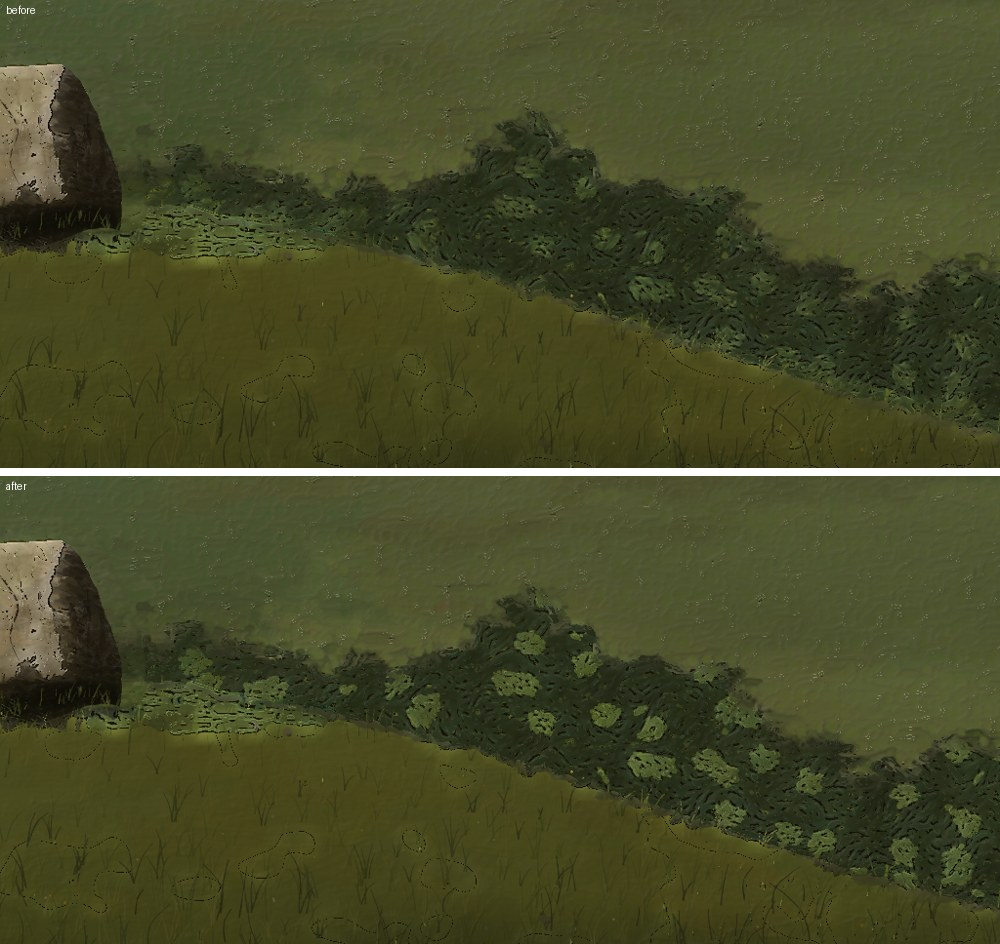
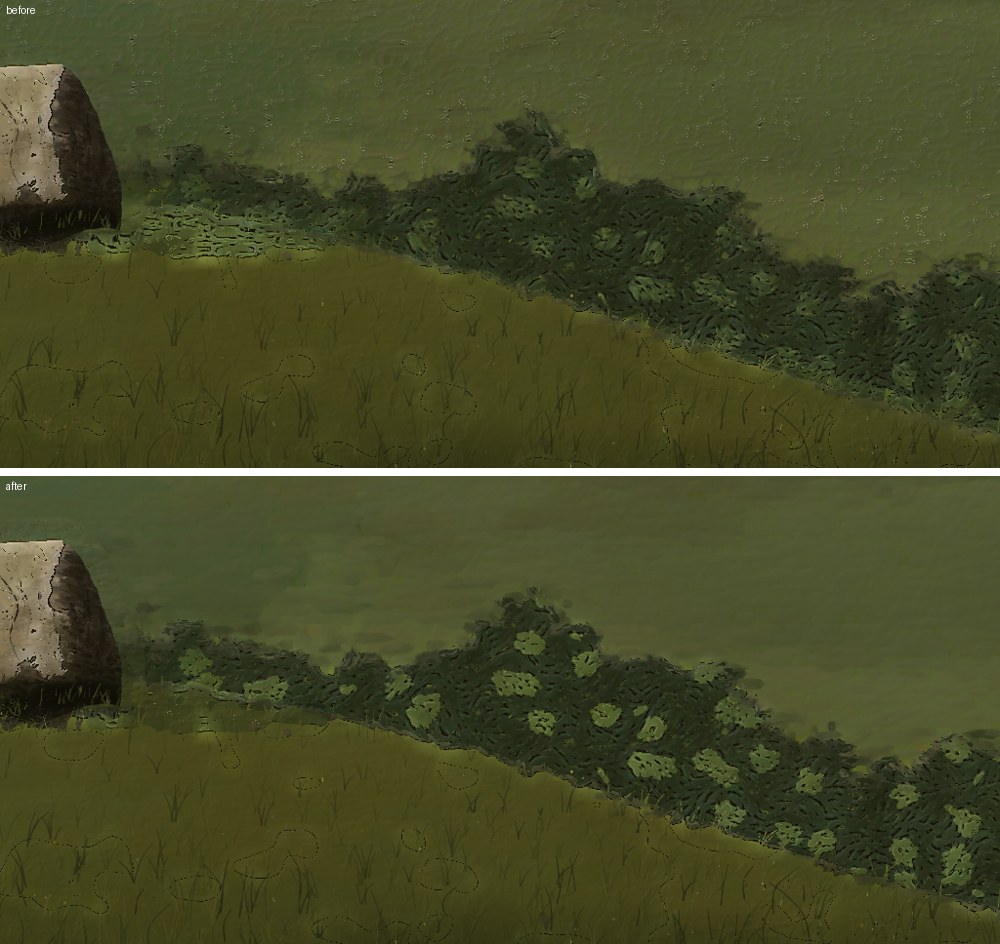
Wet on wet, second pass: notes (lab failures one by one, veins, l5_near floor pass), study_wet_lab panel 6, evidence

Changed region(s): [[0.124, 0.7066, 0.31, 0.7987]]

diff --git a/paintings/src/bin/study_wet_lab.rs b/paintings/src/bin/study_wet_lab.rs
@@ -10,6 +10,8 @@
 //! 4. reference: the brush-free `glaze()` verb over dry sky, same color.
 //! 5. **a thin stroke into open water**, a round 3 with a varying pressure,
 //!    then a short level blend (the "tramlines").
+//! 6. **a clean blender over a lean veil on open thin sky** (lab 3: "salmon
+//!    dashes after `blend` at coverage 1.2 over a lean filbert veil").
 //!
 //! Printed: the share of each panel's worked area that shows the ground,
 //! its texture (mean |L − L blurred over 2 units|, OKLab ×1000: rims,
@@ -22,7 +24,7 @@
 use paint::color::to_oklab;
 use paint::{Canvas, Gesture, Held, Mask, Orient, Pigment, Rgb, Stage, Style, Tool, hex};
 
-const W: f32 = 1000.0 / 6.0;
+const W: f32 = 1000.0 / 7.0;
 const Y0: f32 = 40.0;
 const Y1: f32 = 360.0;
 
@@ -146,6 +148,13 @@ fn main() {
     c.drag(&mut r, &Gesture::new(vec![(x0 + 10.0, 200.0), (x1 - 10.0, 200.0)]).pressure(0.45, 0.45).swell(vec![0.25, 1.1, 0.7, 1.2, 0.1]).orient(Orient::Across), None);
     let lb = st.blend().expect("blender").coverage(1.0).angle(|_, _| 0.0).length(20.0, 40.0);
     c.work(&rect(&c, x0 + 10.0, 192.0, x1 - 10.0, 208.0), &lb, 42);
+    sky(&mut c, &st, 6, Y1);
+    let (x0, x1) = panel(6);
+    let veil = hex("#9a968e");
+    let mut vh = st.body().color(move |_, _| veil).medium(0.5).load(0.3).length(20.0, 50.0);
+    vh.tool = Tool::filbert(6.0);
+    c.work(&rect(&c, x0 + 15.0, 120.0, x1 - 15.0, 300.0), &vh, 50);
+    c.work(&rect(&c, x0 + 15.0, 120.0, x1 - 15.0, 300.0), &st.blend().expect("blender").coverage(1.2), 51);
     c.dry();
     // measure
     let img = Img::new(&c);
@@ -157,8 +166,8 @@ fn main() {
             _ => (x0 + 20.0, 125.0, x1 - 20.0, 295.0),
         }
     };
-    let names = ["blend on a wet seam", "glaze hand, open sky", "glaze hand, tacky sky", "glaze hand, dry sky", "glaze() verb, dry sky", "thin stroke into open water"];
-    for k in 0..6 {
+    let names = ["blend on a wet seam", "glaze hand, open sky", "glaze hand, tacky sky", "glaze hand, dry sky", "glaze() verb, dry sky", "thin stroke into open water", "blend over a lean veil, open"];
+    for k in 0..7 {
         println!("{k} {:<28} ground {:>5.1}%  texture {:>5.1}", names[k], 100.0 * img.ground(g, area(k)), img.texture(area(k)));
     }
     // tramlines: the stroke's cross profile, averaged along it

diff --git a/notes/wet.md b/notes/wet.md
@@ -246,7 +246,7 @@ What mixes: pressure, a lean brush (`load` 0.2–0.4), a stiff hog, dragging
 back and forth, `blend`, `scrub`. What stays on top: a full load
 (0.8–1.0), a soft brush, a light touch, one pass.
 
-## 3. Evidence (after)
+## 3. Evidence (after the first pass; see §5 for the current engine)
 
 `cargo paint study_wet` (1000 px):
 
@@ -350,3 +350,181 @@ prints a touch's lift at 500–3200 px.
 - The stir and cushion constants are estimates (`[E]`), set so the study's
   gestures behave as the alla prima rules describe; there are no
   measurements of mixing depth to calibrate them against.
+
+## 5. Second pass: the lab painters' failures, veins, blending
+
+Main was merged first (r6-time's hand time and the easel fix). The lab
+painters had worked wet on purpose on the old engine and reported
+failures (`notes/lab/*.md` on their branches). I rebuilt each mechanism as
+a panel in `paintings/src/bin/study_wet_lab.rs` (`cargo paint
+study_wet_lab`), with the handling they used, measured on main's engine
+and this branch's, and replayed `notes/lab/water_B.lua` for the tramlines.
+
+### What changed in the engine
+
+- **The earlier surface film is settled at the stroke's end** (`Surf::lay`,
+  `Surf::settle_mid`). The first pass buried an earlier stroke's surface
+  film in the body as soon as a new stroke touched the pixel. A new
+  stroke's thin edge over an earlier light stroke then showed the dark body
+  through it: the **web of dark veins** on the rock and the snow in the
+  first pass's `pitfalls_before_after.jpg`. Now the old film is set aside
+  and, when the stroke ends, buried in proportion to how much of the new
+  paint covers it (`BURY` = 0.6 coats hides it all). The rest stays in the
+  surface film, mixed with the new paint. A film like the body under it is
+  always buried; that changes nothing but frees the surface.
+- **The plough goes with the paint's stiffness** (`PLOUGH_STIFF`). Only
+  paint with a yield stress keeps a bow wave; medium-rich paint flows round
+  the bristle and back into its furrow (a glaze levels bristle-scale
+  ridges in about 0.06 s: `notes/research/oil_paint_physics.md` §1). Paint
+  from medium 0.85 (stiffness about 0.02) is pushed at a tenth of the old
+  rate, a thin sky at medium 0.3 at about 0.6, stiff paint as before.
+- **A blender or a nearly spent bristle drags what it carries into the
+  film** instead of laying it on top (`drag_in`). A clean blender (`lay`
+  0) holds no charge; the paint it moves was picked up a moment before.
+  In the first pass it laid that paint as a surface film, and across a wet
+  seam it left a pale lace of sky on the dark and no blend. The cushion
+  also scales with how much paint the tool is made to carry.
+- **Stirring** follows the bristle's deposit (so what a bristle lays is
+  worked by the same pass). It is stronger for thin surface films: a film
+  much thinner than a coat is no layer of its own once it is sheared. It
+  depends less on bristle stiffness and pressure: any hair shears a surface
+  film.
+
+### The lab failures, one by one
+
+Measured in `study_wet_lab` (1000 px; ground = share of the worked area
+within ΔE 0.06 of the ground color; texture = mean |L − L blurred over 2
+units| ×1000; the brush-free `glaze()` verb gives about 1):
+
+```
+                                     main engine          this branch
+0 blend across a wet seam            ground 0.0% tex  4.8  ground 0.0% tex  4.8
+1 glaze hand over open thin sky      ground 42%  tex 20.4  ground 0.1% tex 11.9
+2 glaze hand over tacky sky          ground 0.0% tex 32.3  ground 0.0% tex  4.0
+3 glaze hand over dry sky            ground 0.0% tex 42.2  ground 0.0% tex  6.8
+4 glaze() verb over dry sky (ref.)   ground 0.2% tex  1.4  ground 0.0% tex  1.0
+5 thin stroke into open water        ground 0.0% tex  6.2  ground 0.0% tex 12.1
+6 blender over a lean veil, open     ground 0.8% tex  5.2  ground 0.0% tex  6.1
+```
+
+Images: `lab_failures_before_after.jpg` (all panels),
+`lab_glaze_zoom_before_after.jpg` (panels 1–3 at 2000 px),
+`lab_water_B_3200crop_before_after.jpg` (the replayed water log).
+
+**Lifting or ploughing to the ground**
+- *A glaze-hand stroke over thin open sky lifts it to the ground* (lab 3):
+  reproduced (42% of the area). **Fixed** (0.1%): the plough no longer
+  bulldozes fluid glaze paint, and the thin sky under it stays.
+- *A clean blender or badger along a wet seam, or over a lean veil,
+  exposes the ground* (labs 1 and 3): reproduced only weakly (0.8% over a
+  lean veil). **Fixed** (0%), by the same fluid plough and by blenders
+  dragging their paint in. A blender across a seam fuses it again (texture
+  4.8, as on main) where the first pass left a lace.
+- *A filbert into thin wet sky scrapes it to the ground* (lab 2): the same
+  mechanism as the plowed river and row 4 of `study_wet` (a bristle
+  pushing a thin film aside), fixed in the first pass by the plough floor
+  and now also by the fluid plough. Not replayed separately.
+- *A light into an open dark ploughs a camouflage mottle with ground
+  showing* (lab 1): **fixed in the first pass** (lights stay on top, clean:
+  `row1_zoom_before_after.jpg`). *Heaps of 2.8–3.5 mm* at one spot: **not
+  fixed**. Found the mechanism: a bristle's contact rises with the wet
+  film's thickness (`base + 0.35 × vol`), so it lays more where paint is
+  already thick. A clean blender over a seam heaped the dark side from 2.2
+  to 4–6 coats while conserving paint overall. Blenders now mix what they
+  heap, so it doesn't show there. A deposit that falls as the wet film
+  under it thickens (film splitting) would fix it, but every handling's
+  thickness is calibrated on the present deposit (the brushed-ground test
+  doubled when I tried limiting pickup instead). Next step.
+
+**Pushed aside instead of mixed**
+- *Tramlines from a thin stroke into wet water* (lab 2): replayed
+  `water_B.lua` at 3200 px (units 380–700 × 520–660). **Fixed**: the sheen is
+  one faint line where main has two parallel pale lines. The fluid plough
+  no longer piles the water into two ridges beside the stroke. (The reeds'
+  dark touches on the spit now stay where they were laid, too.)
+- *A dark over open light pushes the light to the stroke's edges as a pale
+  lace ridge* (labs 1 and 3): the same plough, now weaker in fluid paint.
+  Not measured separately.
+- *A dark stroke through wet light drags the light 40–60 units at nearly
+  full strength* (lab 2): **not addressed**. That is how far a brush
+  carries what it picked up (its `run`), not the wet film. Open.
+
+**Setting and tacky**
+- *Glaze-hand strokes over tacky sky craze into a mosaic* (lab 3):
+  reproduced (texture 32). **Fixed** (4.0): the cells were fresh glaze
+  ploughed into rims around stick-slip patches.
+- *Glaze-hand strokes on dry sky lift each other into a net of dark rims*
+  (lab 3): reproduced (42). **Fixed** (6.8; the `glaze()` verb gives 1).
+  Each new stroke ploughed the previous, still-fluid glaze stroke into a
+  rim.
+- *A dark over setting light comes out a translucent gray streak* (labs 1
+  and 2): **not fixed**. Setting paint already feels tacky
+  (`drying::feel` ramps tack from half the gel point), so the brush
+  empties within a few units, and a spent brush's last paint is dragged
+  in. The loaded stiff light over setting dark in `study_wet` row 4 ends
+  at 0.09 clean (0.88 over open paint). The suspect is the tack ramp in
+  the drying model; I left it, since the time stream owns drying.
+- *Sky laid into setting dark: lumpy puffs 246–625 µm* (lab 1): the heaping
+  above, plus the fast emptying. Open.
+- *A thin veil over tacky paint lies as a flat, hard-edged slab the shape of
+  its mask* (lab 1): not addressed. Over tacky paint nothing mixes, so a
+  veil's edge is where its mask put it, as over dry paint. That is the
+  mask's edge, which the painter controls (`hug=false`, a softened mask).
+- *A dark on tacky paint skips with pale flecks* (lab 3): stick and slip,
+  as designed in `notes/drying.md`. Left.
+
+### The veins (my first pass's own artifact)
+
+`veins_before_after.jpg`: the rock over an open floor. The first pass
+shows a web of sharp dark lines along the edges of the rock's strokes;
+now the dark comes up as soft, broken grays where the brush thinned or
+dragged. The pitfall scene now reads: rock 0.80 of the way to its look
+over a dried floor, snow 0.78, river 25% of its track showing the ground
+at the spent tail (main: 0.60, 0.73 and 90%; first pass: 0.82, 0.87 and
+18%, but with the veins). `pitfalls_before_after.jpg` is updated.
+
+### The blocky patches at l5_near's wood foot
+
+They are paint the log lays. Chunk 7 paints the wood's floor between tree
+rows 3 and 2 as `work(fl, {hand="body", coverage=3, angle=1.5, ...})`:
+vertical body-color strokes, into the still-wet rows. On main's engine
+they mixed into the wet needles as a muddy veil; now they stay where they
+were laid and read as the flat-brush marks they are. Rendered without that
+one `work` call, the patches are gone
+(`l5_near_3200crop_floor_pass_check.jpg`: the log as it is above, the
+floor pass removed below). It's the log's problem. A painter would now lay
+the wood's floor as a thin, soft tone, or before the rows. The blocky top
+edge of the snow bank below is chunk 8's own body strokes, the same on
+both engines.
+
+### Current numbers (`study_wet`, 1000 px)
+
+```
+(units: mm at the canvas's 440 mm width)         open  setting    tacky      dry
+1 light touches: clean, first of a load          0.87     0.93     0.99     0.94
+  clean, third of a load                         0.87     0.90     0.99     0.94
+  area reading light, mm² per touch              5.32     5.10     7.37     5.70
+  short strokes, clean                           1.00     1.00     1.00     1.00
+2 sky over hill: edge 10–90% before badger       4.40     2.20     0.88     0.88
+  edge 10–90% after badger (dried)              11.44    11.00     1.32     1.32
+  hill 6 mm below the join, pulled to sky        0.10     0.06     0.63     0.66
+3 contact shadow: depth reached (1 = paint)      0.98     1.00     1.00     1.00
+  edge to the form above, 10–90%                 1.32     1.32     0.88     0.88
+4 loaded stiff light, clean (start/end)      0.99/0.88 0.99/0.09 0.98/0.88 0.98/0.94
+  thinned light pressed, clean (start/end)   0.61/0.44 0.86/0.26 0.91/0.70 0.85/0.74
+```
+
+At 2000 px the touches read 0.89/0.95 clean (open/setting).
+
+### Benchmarks and tests
+
+`l5_near.lua` and `l3_green.lua` at 1000 px do **not** render identically
+to main (on purpose). l5_near: mean difference 4.5 of 255, 14% of pixels
+over 8, max 176. l3_green: mean 3.1, 7% over 8, max 121. Images:
+`l5_near_after.jpg`, `l3_green_after.jpg` (with the `_before.jpg`s),
+`l5_near_3200crop_before_after.jpg`, `l3_green_3200crop_before_after.jpg`.
+Re-recorded because output changes on purpose: the golden scene, and the
+replay hashes in `crates/easel/tests/hand_time.rs` (both profiles;
+`PRINT_HASHES=1` prints them). `tally`'s aging test now fingerprints the
+wet film too: with the new engine nothing in its 160 minutes of hand time
+gels, so the dry picture alone no longer differs.
